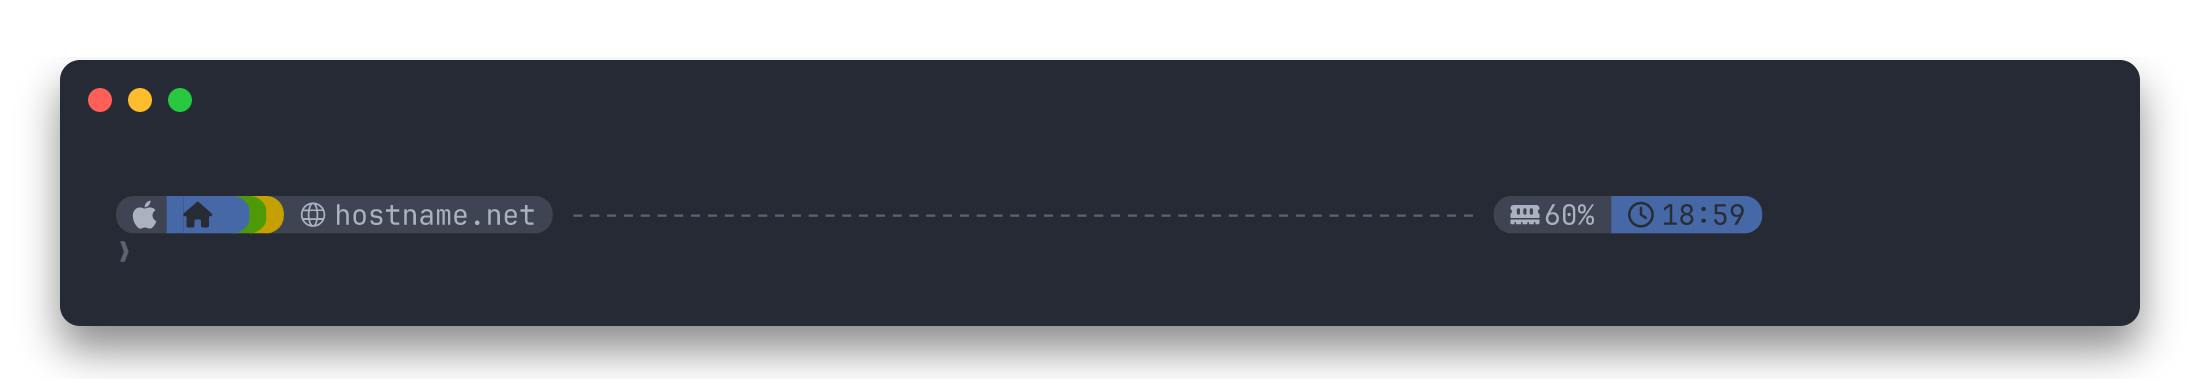
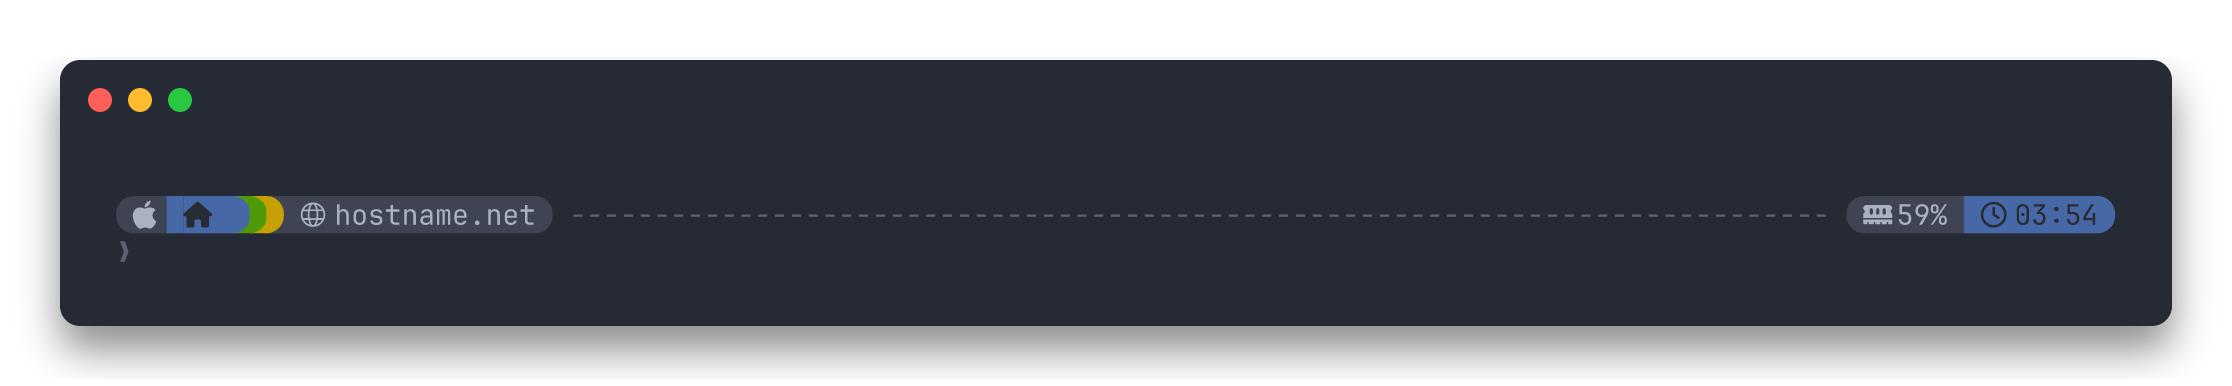
docs: stretch the screenshot prompts to the right edge of the window
- Render 117 columns instead of 96, which left a quarter of the window empty
- Size the SVG window from the widest line, so the column count is the only knob

Changed region(s): [[0.68, 0.4974, 0.9582, 0.6218], [0.0618, 0.4974, 0.3709, 0.5907], [0.0309, 0.2176, 0.0927, 0.2798]]

diff --git a/scripts/prompt-svg.py b/scripts/prompt-svg.py
@@ -13,7 +13,6 @@ CELL_WIDTH = 0.6 * FONT_SIZE  # JetBrains Mono advance, icons included
 LINE_PITCH = 1.32 * FONT_SIZE
 GLYPH_ABOVE = 1.027 * FONT_SIZE  # powerline glyph box of the Nerd Font, yMax 1027 / yMin -307 per 1000 UPM
 GLYPH_BELOW = 0.307 * FONT_SIZE
-WINDOW_WIDTH = 1040
 MARGIN, PADDING, TITLE_BAR = 30, 28, 40
 BACKGROUND, FOREGROUND = "#282c34", "#abb2bf"
 TRAFFIC_LIGHTS = ("#ff5f57", "#febc2e", "#28c840")
@@ -62,8 +61,11 @@ def main():
     x0 = MARGIN + PADDING
     baseline0 = MARGIN + TITLE_BAR + PADDING + GLYPH_ABOVE
     height = MARGIN + TITLE_BAR + PADDING + rows * LINE_PITCH + PADDING + MARGIN
+    runs = list(parse(text))
+    columns = max(col + len(chunk) for _, col, chunk, *_ in runs)
+    window_width = round(2 * PADDING + columns * CELL_WIDTH)  # the window hugs the widest line
     rects, texts = [], []
-    for row, col, chunk, fg, bg, bold in parse(text):
+    for row, col, chunk, fg, bg, bold in runs:
         x = x0 + col * CELL_WIDTH
         baseline = baseline0 + row * LINE_PITCH
         if bg:
@@ -74,11 +76,11 @@ def main():
     lights = "".join('<circle cx="%d" cy="%d" r="6" fill="%s"/>' % (MARGIN + 20 + i * 20, MARGIN + 20, c)
                      for i, c in enumerate(TRAFFIC_LIGHTS))
     print('<svg xmlns="http://www.w3.org/2000/svg" width="%d" height="%.0f" viewBox="0 0 %d %.0f">'
-          % (WINDOW_WIDTH + 2 * MARGIN, height, WINDOW_WIDTH + 2 * MARGIN, height))
+          % (window_width + 2 * MARGIN, height, window_width + 2 * MARGIN, height))
     print('<defs><filter id="shadow" x="-10%" y="-10%" width="120%" height="130%">'
           '<feDropShadow dx="0" dy="12" stdDeviation="10" flood-opacity="0.45"/></filter></defs>')
     print('<rect x="%d" y="%d" width="%d" height="%.0f" rx="10" fill="%s" filter="url(#shadow)"/>'
-          % (MARGIN, MARGIN, WINDOW_WIDTH, height - 2 * MARGIN, BACKGROUND))
+          % (MARGIN, MARGIN, window_width, height - 2 * MARGIN, BACKGROUND))
     print(lights)
     print("\n".join(rects))
     print('<g font-family="%s" font-size="%d" xml:space="preserve">' % (escape(font), FONT_SIZE))

diff --git a/docs/SETUP.md b/docs/SETUP.md
@@ -17,9 +17,9 @@ STARSHIP_CONFIG=./starship.toml starship print-config --default false
 sh scripts/screenshots.sh
 ```
 
-Writes `screenshots/starship-theme-brei0x-*.png` (2200 px wide, 2x) from `starship.toml`: one `preview`
-sequence and one image per state (`home`, `git`, `languages`, `ssh`, `read-only`, `duration-error`, `vim`).
-Every state is rendered by `starship prompt` against temporary fixtures, so no real shell, repository or
+Writes `screenshots/starship-theme-brei0x-*.png` (117 columns, about 2230 px wide at 2x) from
+`starship.toml`: one `preview` sequence and one image per state (`home`, `git`, `languages`, `ssh`,
+`read-only`, `duration-error`, `vim`). Every state is rendered by `starship prompt` against temporary fixtures, so no real shell, repository or
 server is involved: the git state is a scratch repository one commit ahead with modified, staged and
 untracked files, the SSH state sets `SSH_CONNECTION`, the hostname is rewritten to `hostname.net`.
 
